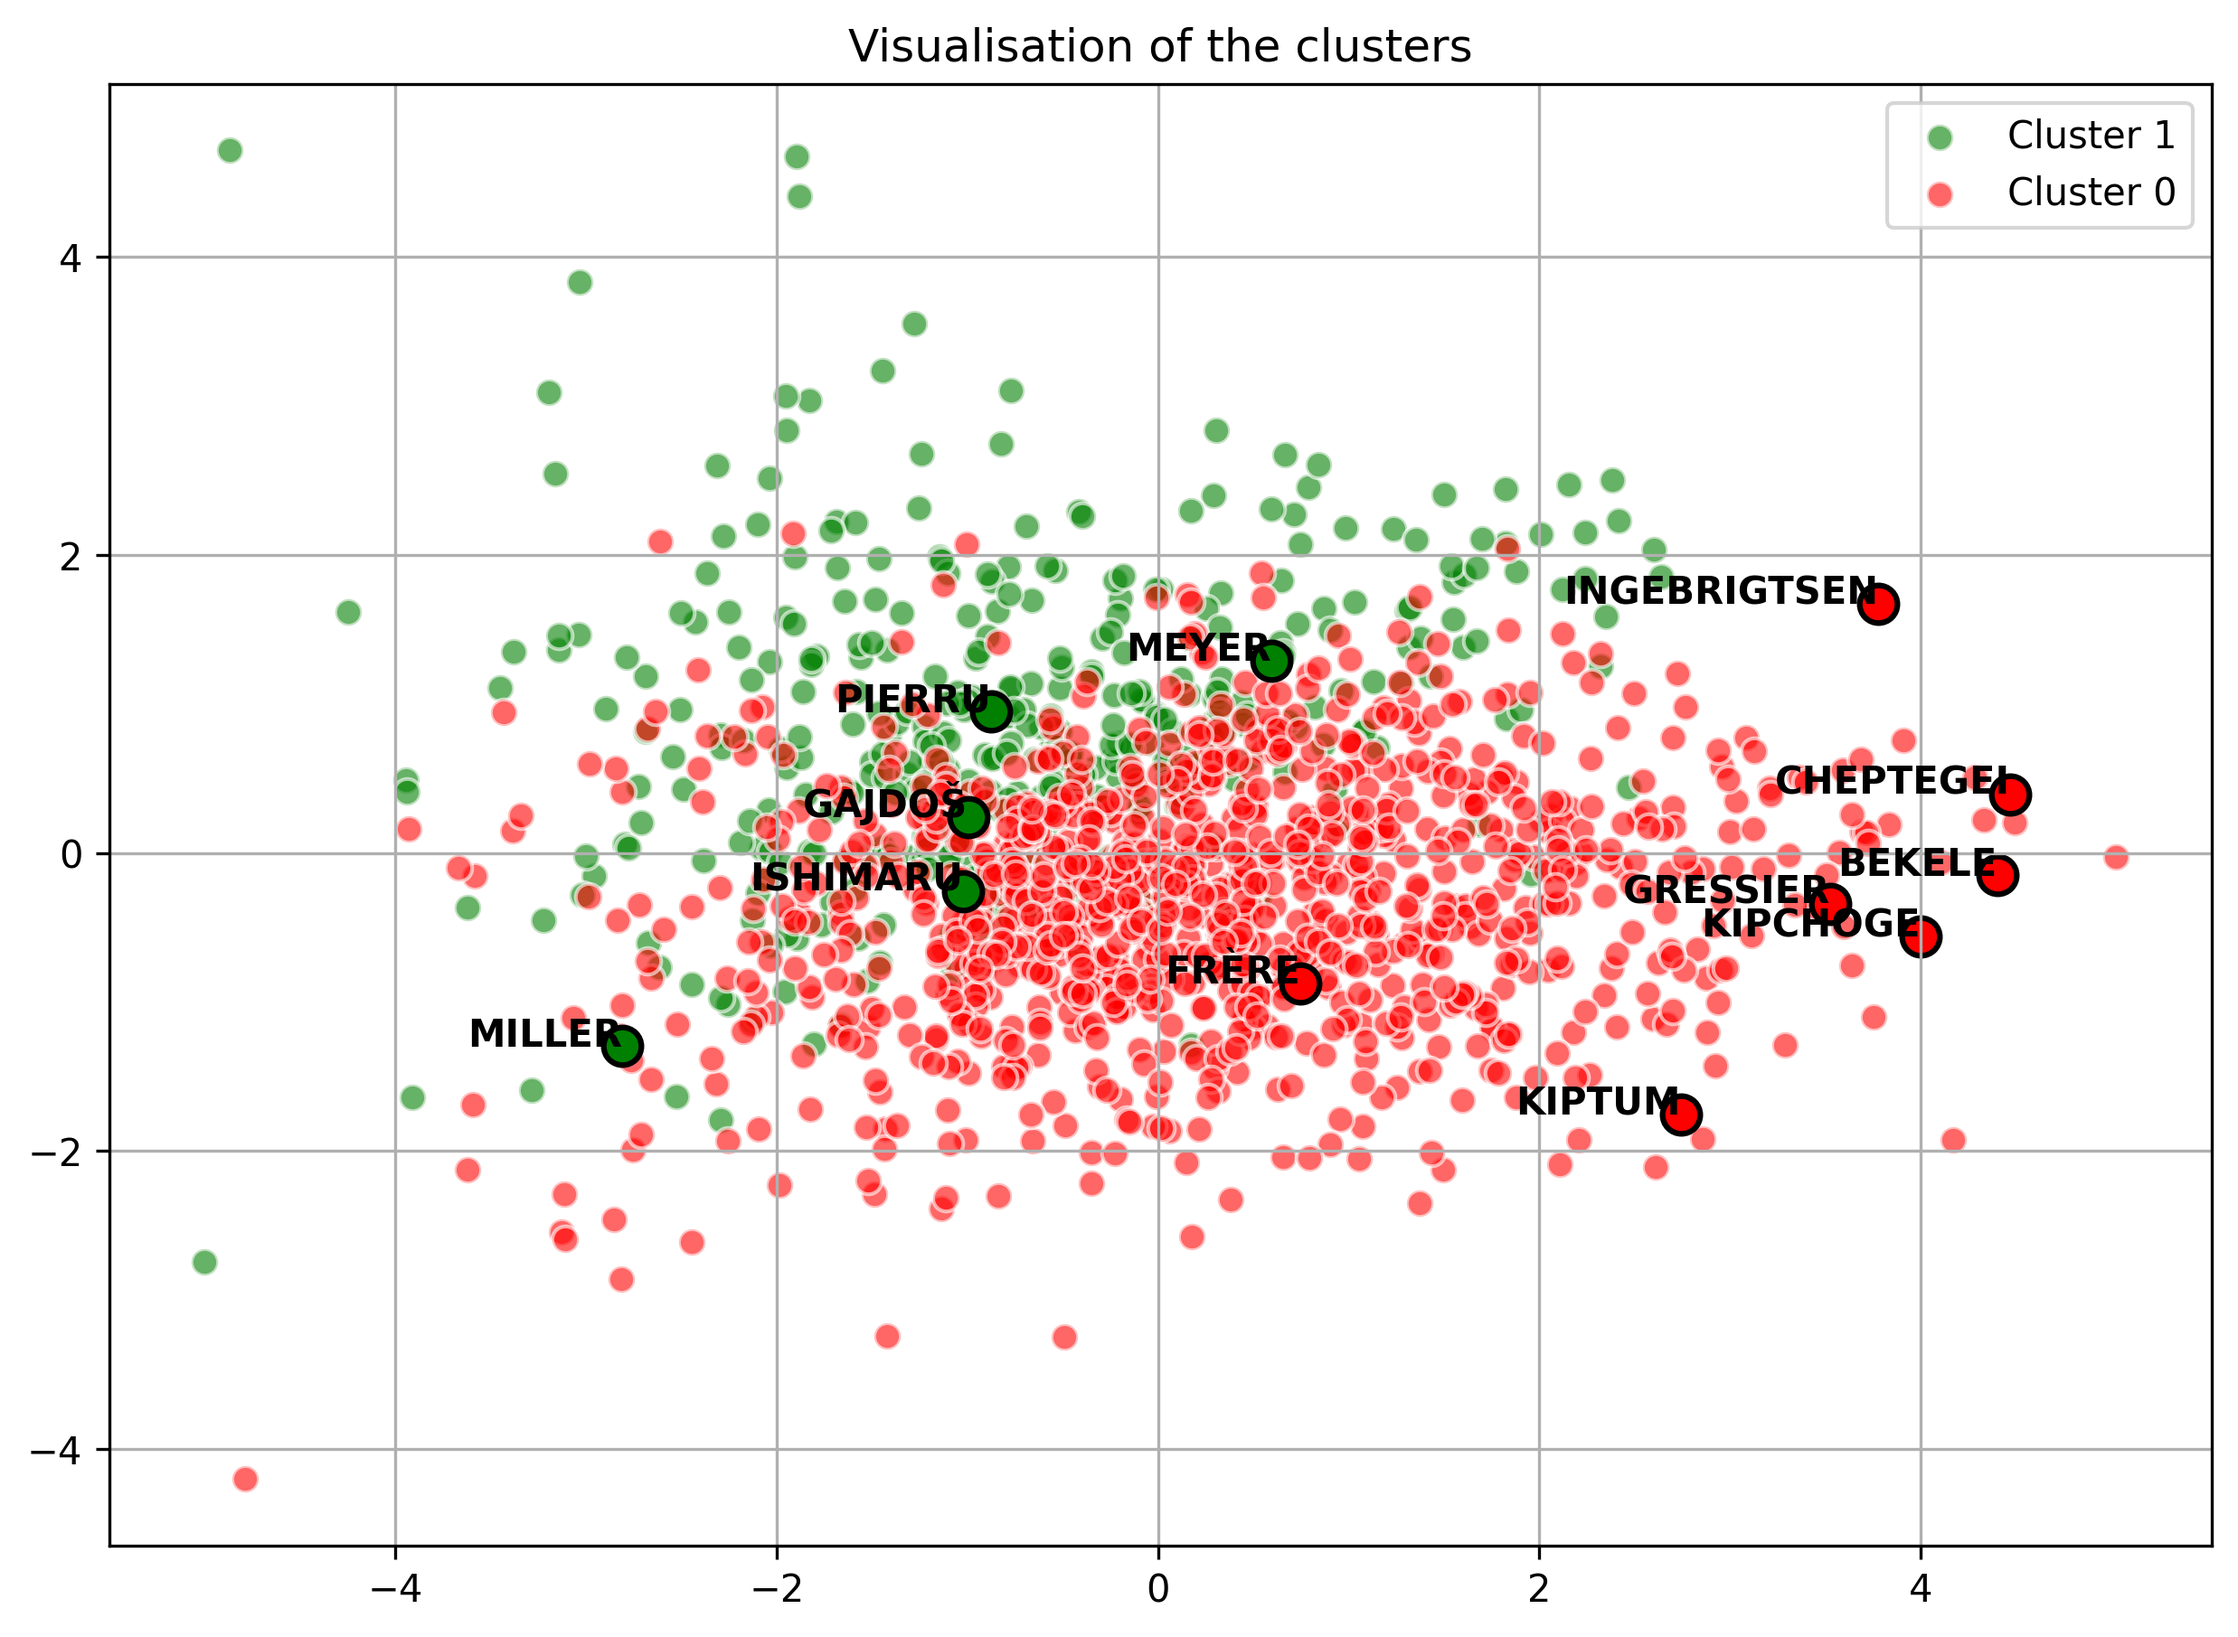
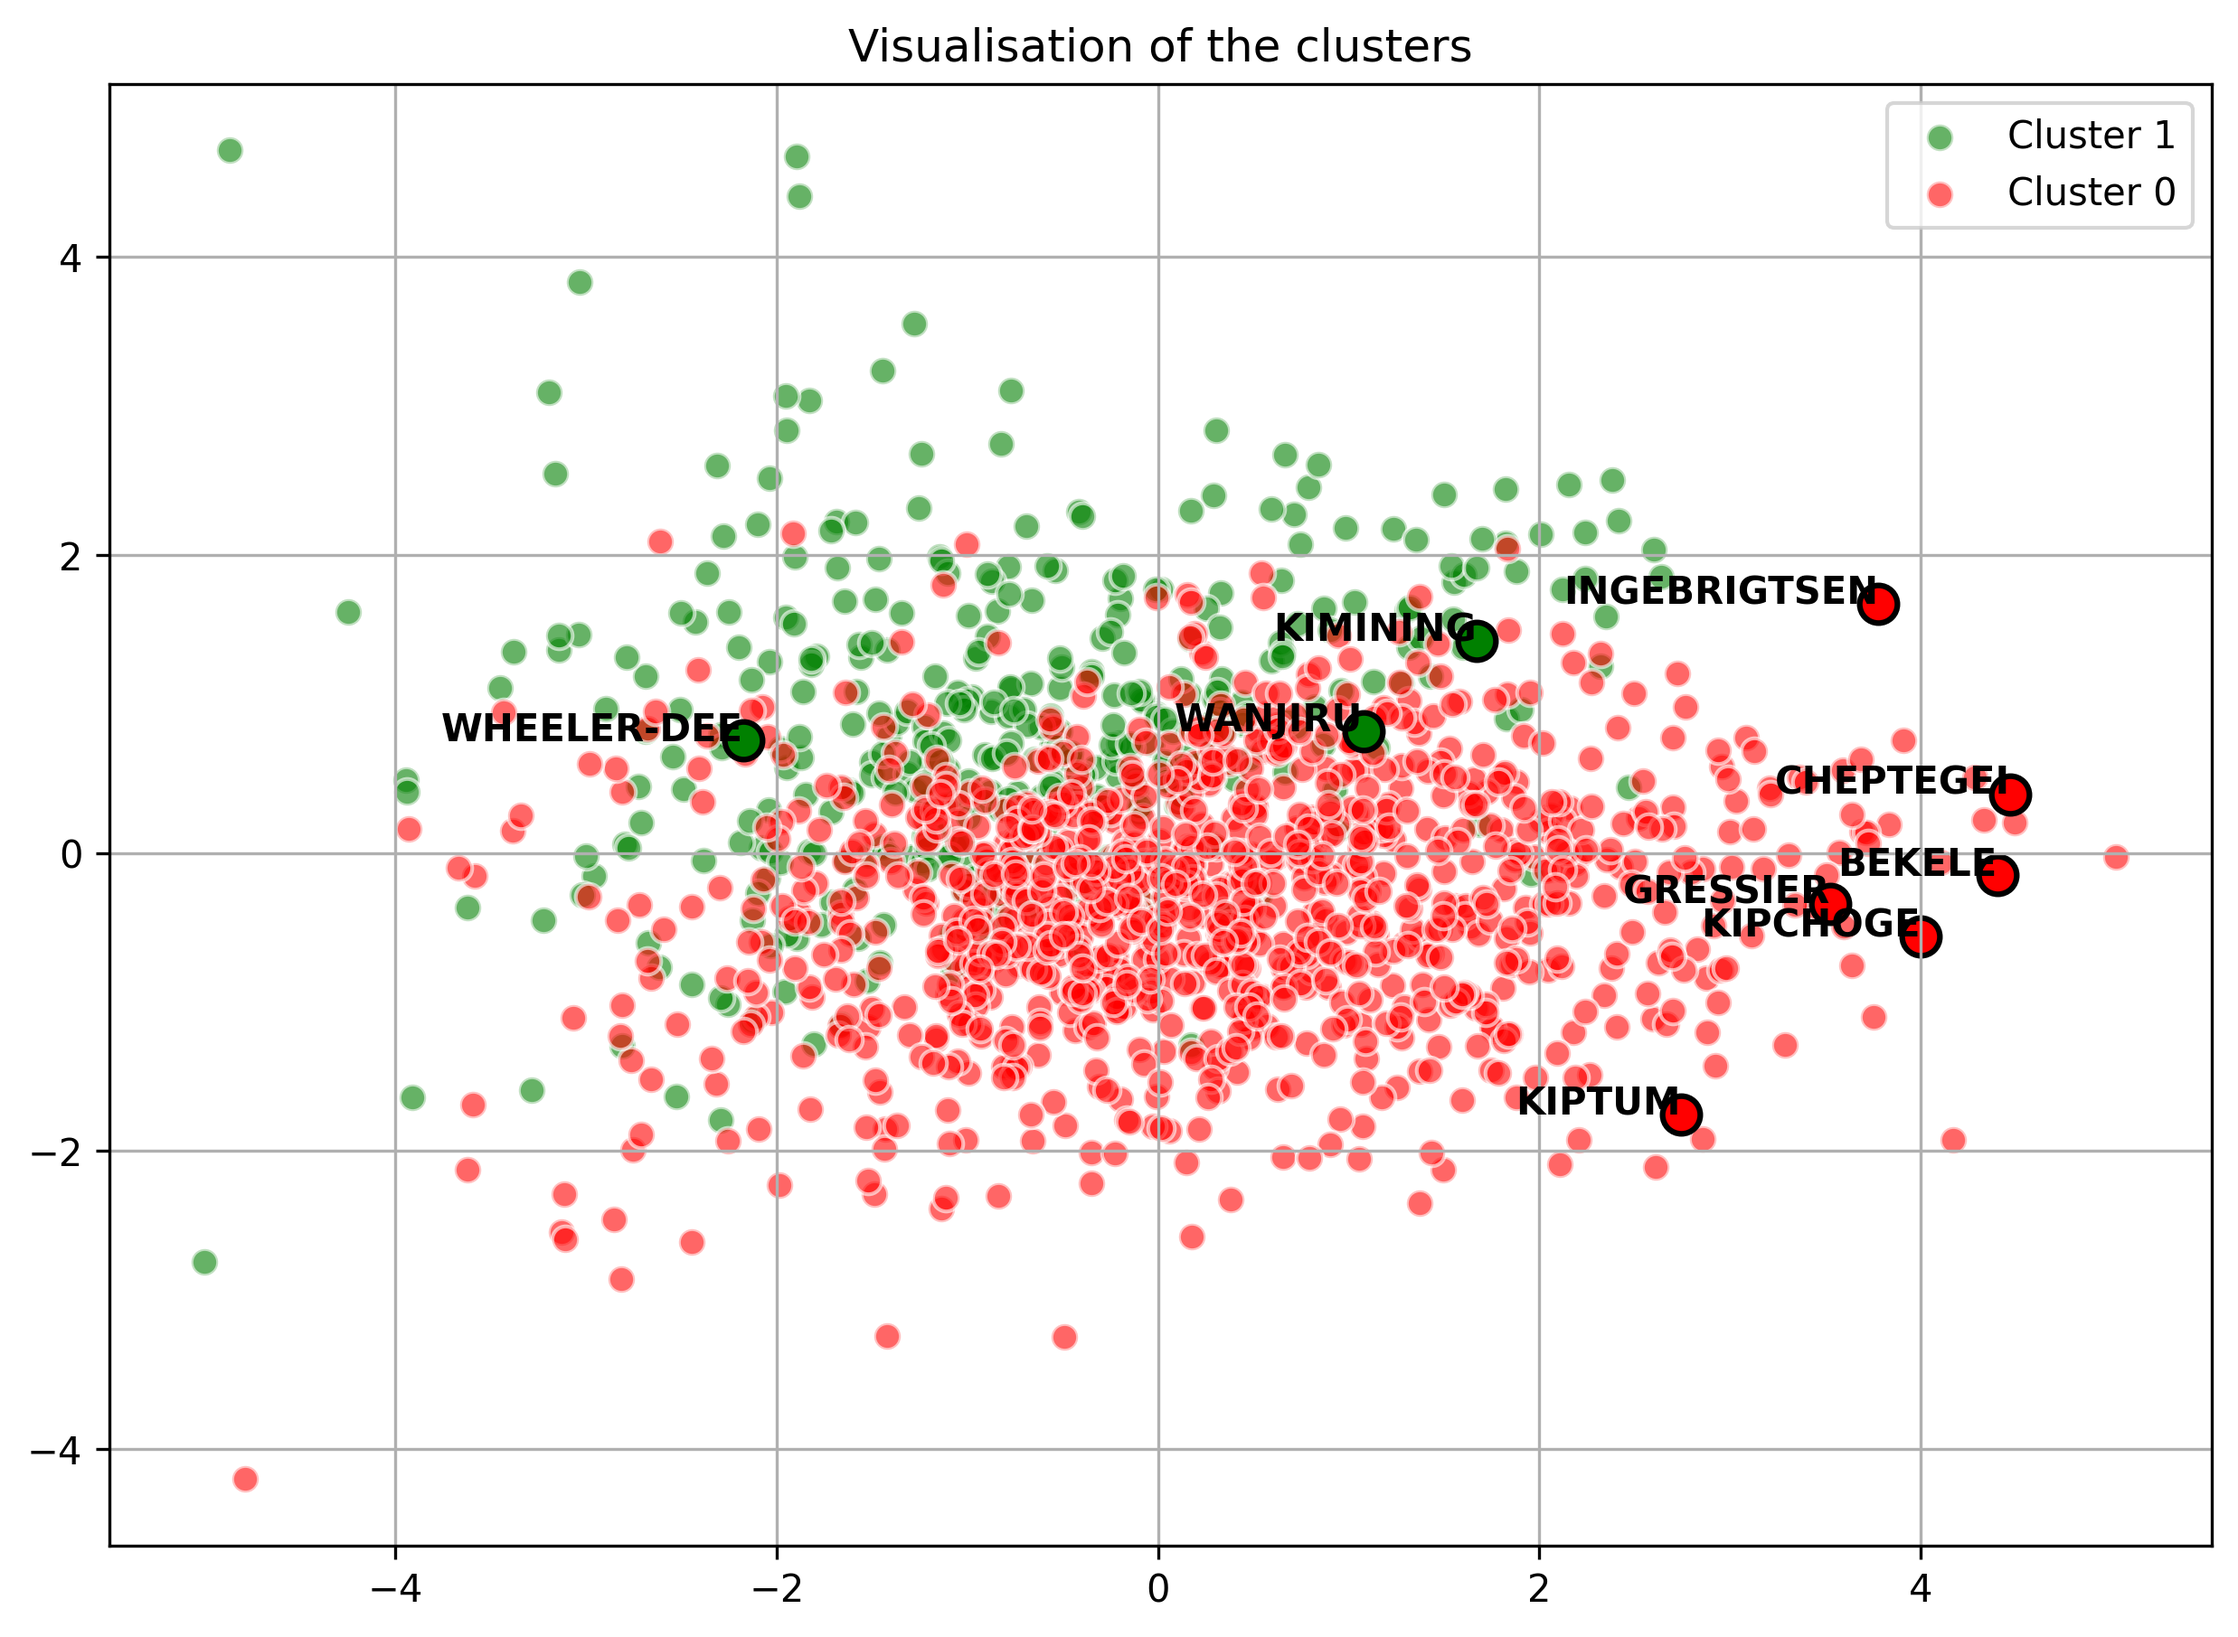
Graph generation

diff --git a/Analysis/age_distribution.py b/Analysis/age_distribution.py
@@ -5,6 +5,7 @@ from clustering import time_to_seconds
 import numpy as np
 
 races = ['1500 Metres', '5000 Metres', '10 Kilometres Road', '10,000 Metres','Half Marathon', 'Marathon']
+
 output_dir = 'Data/Figures'
 os.makedirs(output_dir, exist_ok=True)
 
@@ -39,21 +40,27 @@ def plot_distribution(Gender):
     plt.savefig(output_path, bbox_inches='tight', dpi=300)
 
 
-def calculate_time_differences(df, columns):
+def calculate_time_differences(df, columns, gender):
     """Calculate the differences for successive years for a given column"""
     diffs = {col: [] for col in columns}
-    races_duration = {'1500 Metres' : 210, 
+    races_duration = {'Men' :{'1500 Metres' : 210, 
                     '5000 Metres' : 780,
                     '10 Kilometres Road' : 29*60,
                     '10,000 Metres' : 29*60,
                     'Half Marathon' : 61*60,
-                    'Marathon' : 126*60}
+                    'Marathon' : 126*60},
+                    'Women' :{'1500 Metres' : 240, 
+                    '5000 Metres' : 860,
+                    '10 Kilometres Road' : 32*60,
+                    '10,000 Metres' : 32*60,
+                    'Half Marathon' : 67*60,
+                    'Marathon' : 139*60}}
     previous_values = {col: None for col in columns}
     
     for __, row in df.iterrows():
         for col in columns:
             if previous_values[col] is not None:
-                diffs[col].append((- row[col] + previous_values[col])/races_duration[col])
+                diffs[col].append((- row[col] + previous_values[col])/races_duration[gender][col])
             else:
                 diffs[col].append(np.nan)
             previous_values[col] = row[col]
@@ -88,16 +95,14 @@ def calculate_rolling_best_time(df, columns):
 
 def plot_progression(Gender):
     perf_by_age = create_age_performance_table(Gender)
-
+    r = races.copy()
     perf_by_age.sort_values(by=['Name', 'Year'], inplace=True)
-
     # Calculate the time differences between successive years for each athlete
     for col in races:
         perf_by_age[col] = perf_by_age[col].apply(time_to_seconds)
-    races.append('Name')
-    progress_by_age = perf_by_age[races].groupby('Name').apply(lambda x: calculate_rolling_best_time(x, races[:-1])).reset_index(level=0, drop=True)
-    print(perf_by_age)
-    progress_by_age = progress_by_age[races].groupby('Name').apply(lambda x: calculate_time_differences(x, races[:-1])).reset_index(level=0, drop=True)
+    r.append('Name')
+    progress_by_age = perf_by_age[r].groupby('Name').apply(lambda x: calculate_rolling_best_time(x, races)).reset_index(level=0, drop=True)
+    progress_by_age = progress_by_age[r].groupby('Name').apply(lambda x: calculate_time_differences(x, races,Gender)).reset_index(level=0, drop=True)
     progress_by_age['Age'] = perf_by_age['Age']
     progress_by_age = progress_by_age.drop(columns='Name')
 
@@ -106,7 +111,7 @@ def plot_progression(Gender):
     progress_by_age = progress_by_age[progress_by_age.index>20]
 
     plt.figure(figsize=(10,7))
-    for col in races[:-1]:
+    for col in races:
         plt.plot(progress_by_age[col], label = col)
     plt.legend()
     plt.xlabel('Age')

diff --git a/Analysis/clustering.py b/Analysis/clustering.py
@@ -15,7 +15,7 @@ datetime_columns = ['1500 Metres', '10 Kilometres Road', '5000 Metres','Half Mar
 def time_to_seconds(t):
     if pd.isnull(t):
         return np.nan
-    t = t.split()[2]
+    t = t.split()[-1]
     t = re.split('[:.]', t)
     time = float(t[0])*3600 + float(t[1]) * 60 + float(t[2])
     if len(t) == 4:
@@ -96,7 +96,7 @@ def make_plot(best_performance,Gender):
         plt.scatter(cluster_data['PCA1'], cluster_data['PCA2'], label=f'Cluster {cluster}', c=colors[cluster % len(colors)], alpha=0.6, edgecolors='w', s=50)
 
     if Gender == 'Men':
-        points_to_label = ['Eliud KIPCHOGE','Kelvin KIPTUM', 'Jakob INGEBRIGTSEN', 'Kenenisa BEKELE', 'Mehdi FRÈRE', 'Jimmy GRESSIER', 'Joshua CHEPTEGEI']
+        points_to_label = ['Eliud KIPCHOGE','Kelvin KIPTUM', 'Jakob INGEBRIGTSEN', 'Kenenisa BEKELE', 'Jimmy GRESSIER', 'Joshua CHEPTEGEI']
     else:
         points_to_label = ['Letesenbet GIDEY','Sifan HASSAN','Tigst ASSEFA','Faith KIPYEGON']
     for point in points_to_label:
@@ -110,7 +110,7 @@ def make_plot(best_performance,Gender):
 
     for cluster in clusters_to_label:
         cluster_data = best_performance[best_performance['Cluster'] == cluster]
-        sampled_points = cluster_data.sample(n=num_points_to_label, random_state=10)
+        sampled_points = cluster_data.sample(n=num_points_to_label, random_state=15)
         for __, row in sampled_points.iterrows():
             plt.scatter(row['PCA1'], row['PCA2'], c=colors[cluster % len(colors)], edgecolor='black', s=100, linewidth=1.5) 
             plt.text(row['PCA1'], row['PCA2'], row['Name'].split()[-1], fontsize=10, ha='right', weight = 'bold')
@@ -131,10 +131,8 @@ def make_plot(best_performance,Gender):
     output_path = os.path.join(output_dir, f'{Gender}_Athletes_clustering.png')
     plt.savefig(output_path, bbox_inches='tight', dpi=300)
 
-    plt.show()
 
-
-def final_function(Gender):
+def final_clustering(Gender):
     imputed_df,df = impute_missing_performances(Gender)
     best_performance, names = generate_best_performance(df,imputed_df)
     best_performance = clustering_pca(best_performance,names)

diff --git a/Analysis/plot_generation.py b/Analysis/plot_generation.py
@@ -1,0 +1,12 @@
+from clustering import final_clustering
+from age_distribution import plot_distribution
+from age_distribution import plot_progression
+
+final_clustering('Men')
+final_clustering('Women')
+
+plot_progression('Men')
+plot_progression('Women')
+
+plot_distribution('Men')
+plot_distribution('Women')
